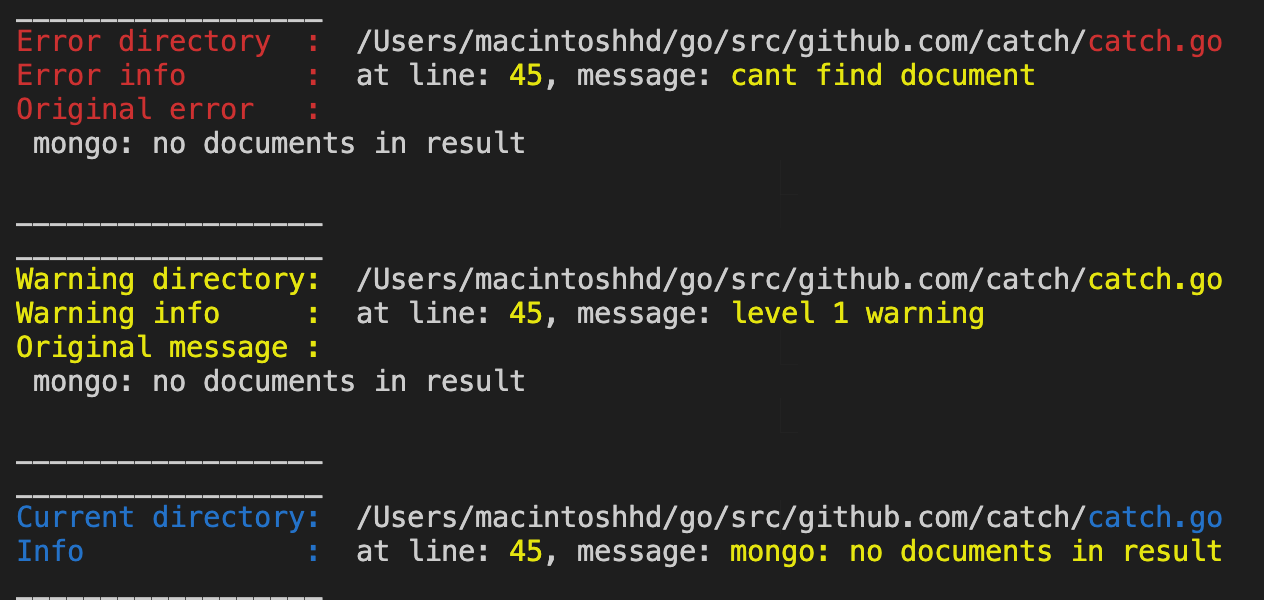
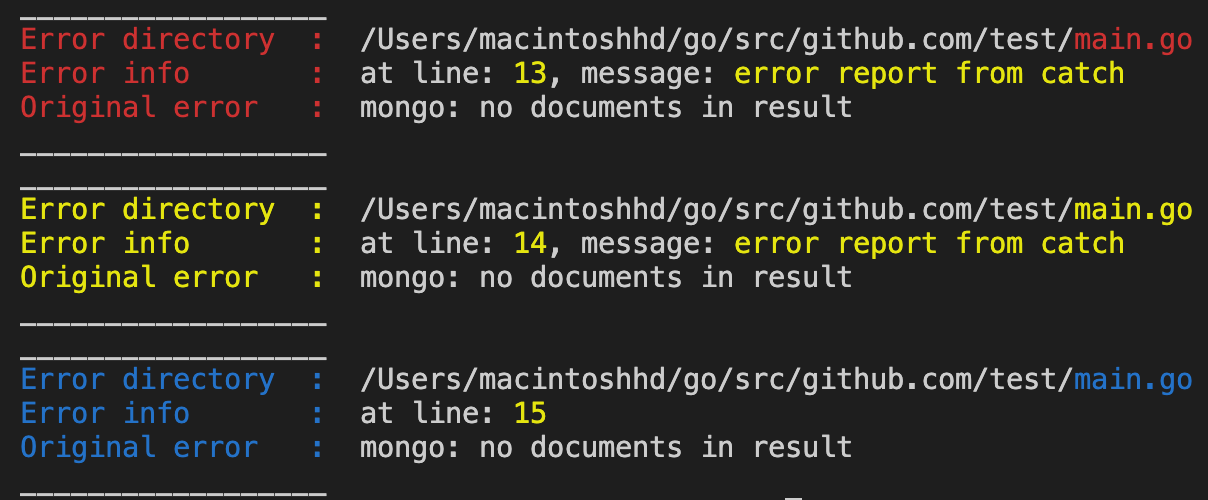
edit assets + readme

diff --git a/main.go b/main.go
@@ -188,7 +188,6 @@ func (c *CatchLogger) GetLogDirectory() string {
 }
 
 func (c *CatchLogger) SaveToLogFile(e error) {
-	fmt.Println(c.GetLogDirectory())
 	f, err := os.OpenFile(c.GetLogDirectory(), os.O_APPEND|os.O_CREATE|os.O_WRONLY, 0644)
 	if err != nil {
 		panic(err)

diff --git a/readme.md b/readme.md
@@ -17,24 +17,26 @@ __*catch*__ is a simple logging package that colorizes logs to help you read err
     )
 ## Simple logging
   	err := errors.New("mongo: no documents in result")
-	catch.Error(err, "cant find document")
-	catch.Warn(err, "level 1 warning")
-	catch.Inform(err)
+	err2 := errors.New("file extension is not supported")
+	m := "error report from catch"
+
+    //create a new instance with our log file name
+	c := catch.NewLog("catch")
+
+    //call log functions
+	c.Error(err, m)
+	c.Warn(err, m)
+	c.Inform(err)
+
+    
 
 ![example of simple logigng](./assets/image.png)
 
-## Custom logging
-    var customLog = make(map[string]string)
-    customLog["count"] = "first try"
-    customLog["heads"] = "eeve"
-
-    catch.CustomLog(customLog, catch.TypeError)
-![example of custom loging](./assets/custom_log.png)
-
 ## Create, save and delete log file
-    err := errors.New("mongo: no documents in result")
-	c := catch.NewLog("catch")
+
+    //save logs to predefined file which is "catch"
 	c.SaveToLogFile(err)
+	c.SaveToLogFile(err2)
 After saving log file, file will look like this:
 
 ![example of custom loging](./assets/log_file.png)
